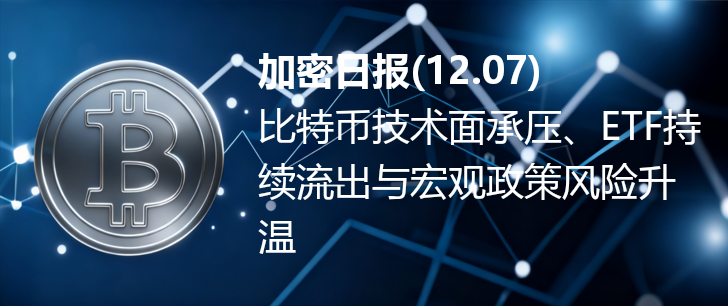
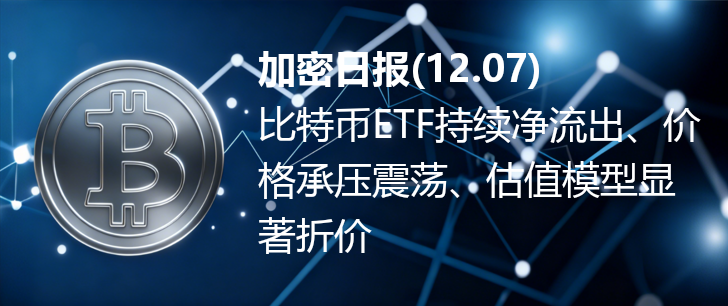
daily_news

diff --git a/files/latest_summary.md b/files/latest_summary.md
@@ -1,132 +1,34 @@
-# 各国政策与监管变化
-
-### 多国监管与法律事件
-**总结**  
-1. 马来西亚成立联合工作组，打击非法比特币矿机（涉及偷电损失超11亿美元）。  
-2. 美国非营利组织BPI呼吁特朗普赦免Samourai钱包开发者，认为起诉错误适用联邦法律。  
-3. 俄罗斯经济顾问建议将加密资产纳入国际收支统计，视比特币挖矿为“出口项目”。  
-**来源**  
-- [马来西亚成立联合工作组打击1.4万台非法比特币矿机](https://www.odaily.news/zh-CN/newsflash/459394)  
-- [BPI呼吁特朗普赦免Samourai钱包开发者](https://www.binance.com/zh-CN/square/post/12-04-2025-bpi-samourai-3200-33255431691097)  
-- [普京顾问建议将加密资产纳入国际收支统计](https://www.binance.com/zh-CN/square/post/12-04-2025-33244540936305)
+### 一、加密货币ETF资金流动与机构需求  
+**总结**：  
+1. 比特币现货ETF单日净流出1.95亿美元，12支基金无一录得净流入，贝莱德旗下IBIT净流出最多（1.13亿美元），富达FBTC净流出5420.48万美元。  
+2. 贝莱德比特币ETF连续六周净流出，创推出以来最长净流出纪录，机构对比特币的需求持续低迷，与今年标普500指数上涨16%形成鲜明对比。  
+**参考**：  
+- [比特币现货ETF昨日净流出1.95亿美元，12支基金无一录得净流入](https://news.futunn.com/post/658450)  
+- [贝莱德比特币ETF遭遇创纪录35亿元净流出](https://www.zaobao.com.sg/finance/world/story20251206-7925062)  
 
 
-### 稳定币监管与风险
-**总结**  
-1. 国际货币基金组织（IMF）呼吁加强稳定币统一监管，担忧其对货币主权、金融稳定及非法交易的影响。  
-2. 稳定币在跨境支付中的应用扩展引发监管关注，需平衡创新与风险控制。  
-**来源**  
-- [IMF经济学家呼吁加强稳定币统一监管以应对风险升级](https://news.bitcoin.com/zh/imf-jingjixuejia-huyuzengqiang-wendingbi-tongyi-jianguan-yi-yingdui-fengxian-shengji/)  
+### 二、比特币技术分析与价格走势  
+**总结**：  
+1. 比特币在$92,600遇阻后回落至$88,100，当前在$89,200-$89,900区间横盘震荡，成交量轻，市场表现犹豫。  
+2. 4小时图形成“圆顶”结构，关键支撑位$88,000-$90,000，阻力位$91,500-$95,000，若跌破$88,000或重测$80,537低点。  
+3. 日线图显示仍处于下行趋势恢复阶段，200周期SMA（约$109,295）远高于当前价格，技术指标RSI（43）、随机指标（65）中性，MACD提供微弱牛市信号。  
+**参考**：  
+- [比特币价格观察：技术信号显示谨慎，而非投降](https://www.bitcoin.com/zh/can-yi-yuan-jia-mi-shi-chang-fa-an-de-xian-zhuang-wen-ding-bi-te-lang-pu-de-can-yu-he-qu-zhong-xin-hua-jin-rong-tong-dian-fen-xi/)  
 
 
-### 中国与美国监管动态
-**总结**  
-1. 中国七大金融协会发布风险提示，明确禁止虚拟货币及RWA代币业务。  
-2. 美国监管态度转向宽松，允许银行提供加密服务（如德州小型贷款机构Monet加入加密银行行列）。  
-**来源**  
-- [中国七大金融协会发布关于防范涉虚拟货币等非法活动风险提示](https://finance.sina.com.cn/blockchain/roll/2025-12-05/doc-infzukxu8141966.shtml)  
-- [德州小型贷款机构Monet 加入加密货币专注银行行列](https://www.coindesk.com/zh/policy/2025/12/05/small-texas-lender-monet-joining-field-of-crypto-focused-banks)  
-
-
-### 欧洲与美国加密法案进展
-**总结**  
-1. 欧洲机构启动加密资产审查，重点关注稳定币储备、加密投资产品资本要求。  
-2. 美国参议院加密市场法案引发关注，涉及稳定币监管、特朗普参与及DeFi痛点分析。  
-**来源**  
-- [2025年12月6日币圈有多个重要动态，涵盖价格波动、技术升级、监管与机构动作等方面](https://www.binance.com/my-MM/square/post/33321267881354)  
-- [参议院加密市场法案的现状：稳定币、特朗普的参与和去中心化金融痛点分析](https://news.bitcoin.com/zh/can-yi-yuan-jia-mi-shi-chang-fa-an-de-xian-zhuang-wen-ding-bi-te-lang-pu-de-can-yu-he-qu-zhong-xin-hua-jin-rong-tong-dian-fen-xi/)  
-
-
-# 企业与机构的活动
-
-### 机构合并与上市
-**总结**  
-1. Cantor Equity Partners与Twenty One Capital合并，更名为Twenty One Capital, Inc.，计划12月9日纽交所上市（代码“XXI”），定位为比特币原生上市公司。  
-2. Anthony·庞普利亚诺的比特币资金管理公司ProCap BTC完成SPAC合并交易，打造比特币金库公司。  
-**来源**  
-- [Cantor Equity Partners 与Twenty One Capital 合并并计划纽交所上市](https://www.binance.com/zh-CN/square/post/12-04-2025-cantor-equity-partners-twenty-one-capital-33242866117970)  
-- [Anthony·庞普利亚诺的比特币资金管理公司ProCap BTC完成SPAC合并交易](https://www.coindesk.com/zh/markets/2025/12/06/anthony-pompliano-s-bitcoin-treasury-firm-procap-btc-closes-spac-merger-deal)  
-
-
-### 机构资金与持仓动态
-**总结**  
-1. Matrixport过去24小时从币安提取3805枚BTC（价值约3.525亿美元），反映机构资金转移动态。  
-2. Strategy（原MicroStrategy）过去48小时向富达转移6536枚BTC，托管比例升至28%，以控制持仓风险。  
-3. 摩根大通关注MicroStrategy持仓抛售风险，认为其能否挺住是比特币短期走势关键。  
-**来源**  
-- [Matrixport过去24小时从币安提取3805枚BTC](https://www.odaily.news/zh-CN/newsflash/459461)  
-- [Strategy 过去48 小时向富达转移6536 枚BTC ，目前约28%的持仓已由富达托管](https://www.odaily.news/zh-CN/newsflash/459602)  
-- [摩根大通：比特币短期关键在Strategy抛售风险，中期理论估值约17 万美元](https://finance.sina.com.cn/blockchain/roll/2025-12-05/doc-infzukxu8141966.shtml)  
-
-
-### 企业加密服务扩展
-**总结**  
-1. 法国银行巨头BPCE将于12月8日向200万零售客户提供加密交易服务（支持BTC、ETH等），月费2.99欧元，交易佣金1.5%。  
-2. 贝莱德CEO Larry Fink称比特币为“恐慌资产”，旗下比特币ETF管理规模达800亿美元，机构需求稳健。  
-**来源**  
-- [法国银行巨头BPCE 将为200 万零售客户推出加密货币交易](https://www.coindesk.com/zh/business/2025/12/06/french-banking-giant-bpce-to-move-crypto-trading-for-2m-retail-clients)  
-- [贝莱德首席执行官称比特币是"令人恐惧的资产"，因为主权财富基金在不断积累](https://www.bitcoinsensus.com/zh/news/bitcoin/blackrock-ceo-calls-bitcoin-an-asset-of-fear-as-sovereign-wealth-funds-accumulate)  
-
-
-### 矿企融资与业务动态
-**总结**  
-1. BitFuFu 11月产出231 BTC，并出售部分以控制风险。  
-2. 纳斯达克上市公司Soluna Holdings通过配股募资3200万美元，用于比特币挖矿、生成式AI等高性能计算业务。  
-**来源**  
-- [BitFuFu 公布11 月产出231 BTC](https://finance.sina.com.cn/blockchain/roll/2025-12-05/doc-infzukxy6422502.shtml)  
-- [加密矿企Soluna 根据纳斯达克规则达成最终协议配股募资3200 万美元](https://www.odaily.news/zh-CN/newsflash/459624)  
-
-
-# 价格波动与市场风险
-
-### 比特币市场分析与历史对比
-**总结**  
-1. 比特币当前市场结构与2022年第一季度类似，供应亏损超25%，需求减弱。  
-2. ETF资金流出主因基差交易平仓而非恐慌，机构需求仍稳健。  
-3. 历史数据显示，比特币30%以上回调后通常反弹至新高，当前Coinbase溢价指数转正、市场去杠杆化及机构资金流入等信号预示可能迎来新一轮行情。  
-**来源**  
-- [比特币(BTC)在需求减弱的情况下面临与2022年第一季度类似的市场结构。](https://blockchain.news/news/bitcoin-btc-market-structure-q1-2022-weakening-demand-zh)  
-- [比特币（BTC）“基差交易”平仓导致近期40亿美元ETF资金流出。](https://www.coindesk.com/zh/markets/2025/12/04/usd4b-bitcoin-etf-outflows-in-oct-nov-reflect-basis-trade-unwind-not-capitulation-research-analyst)  
-- [三大关键信号预示BTC或将迎来新一轮行情](https://www.binance.com/zh-CN/square/post/33257375061674)  
-
-
-### 比特币价格波动与技术面分析
-**总结**  
-1. 比特币近期在88,000-93,000美元区间震荡，CME期货主力合约12月5日下跌3.68%至89,425美元，本周累跌1.80%。  
-2. 技术面显示4小时图形成“圆顶”形态，短期关键支撑$88,000（跌破或重测11月低点$80,537），阻力$95,000（突破或逆转趋势）。  
-3. 技术指标（RSI、随机指标）中性，移动平均线呈看跌排列，存在看跌背离（与2021-2022年类似，或演变为宏观下跌趋势）。  
-**来源**  
-- [比特币再度跌破9万美元关口交易员押注短期或继续横盘](https://news.futunn.com/post/65867682/bitcoin-has-once-again-fallen-below-the-90000-mark-with)  
-- [CME比特币期货BTC主力合约较周四纽约尾盘跌3.68%，报89425美元](https://www.163.com/dy/article/KG2VFOKG0512B07B.html)  
-- [比特币价格观察：技术信号显示谨慎，而非投降](https://www.binance.com/zh-CN/square/post/333212/)  
-
-
-### 比特币估值模型与ETF资金流向
-**总结**  
-1. 幂律估值模型显示当前价格较目标折价约32%（2024年8月以来最大偏离），需关注模型回归或跌破风险。  
-2. 比特币现货ETF持续净流出，贝莱德旗下ETF连续六周净流出，12月4日单日净流出1.95亿美元（12支基金无一净流入）。  
-3. 2025年出现股市（标普500涨16%）与比特币（跌3%）罕见分化，主因资本轮动至防御性资产、ETF资金流入放缓。  
-**来源**  
+### 三、比特币估值模型与市场趋势分析  
+**总结**：  
+1. 比特币幂律估值模型显示当前价格约$118,000，现货价格约$89,618，较模型折价32%，为2024年8月日元套息交易清算以来最大偏差。  
+2. 分析师指出，比特币出现“看跌背离”现象（价格上涨但高点降低、资金流入减少），与2021-2022年市场情况类似，或预示宏观下跌趋势。  
+**参考**：  
 - [比特币是否即将打破其最后一个存活的估值模型？](https://www.coindesk.com/zh/markets/2025/12/05/how-much-longer-until-we-consider-the-bitcoin-power-law-model-invalid)  
-- [比特币现货ETF昨日净流出1.95亿美元，12支基金无一录得净流入](https://www.futunn.com/news/65845037)  
-- [比特币年内下跌3%，标普500指数上涨16%，十年来首次出现重大分化](https://www.bitcoinsensus.com/zh/news/bitcoin/bitcoin-broke-from-stocks-for-the-first-time-in-a-decade)  
+- [分析师：目前BTC看跌背离现象与2021-2022年期间的情况类似，或演变为宏观下跌趋势](https://www.bitpush.news/articles/7593659)  
 
 
-# 其它相关事件
-
-### 实体比特币资产转移
-**总结**  
-1. 与实体Casascius硬币相关的两个长期休眠钱包（13年未活跃）转移2000 BTC（价值约1.8亿美元），或因物理组件退化或保障访问权。  
-**来源**  
-- [两枚持有2000比特币的Casascius硬币在13年未活跃后被转移](https://news.futunn.com/post/658766/)  
-- [两枚持有2,000枚比特币的Casascius实体币在沉寂13年后被转移](https://www.coindesk.com/zh/business/2025/12/06/two-casascius-coins-holding-2k-btc-moved-after-13-years-of-inactivity)  
-
-
-### 项目动态与行业争议
-**总结**  
-1. Aster团队销毁8000万美元回购资金；Base上线Solana跨链桥，实现双向资产互通；币安停止Tranchess、dForce等部分代币充提。  
-2. Polymarket在MetaMask移动应用上线预测市场；Rainbow基金会规划TGE，但其USPD协议遭攻击损失约100万美元。  
-3. 前Cash App高管Mike Brock批评比特币被权贵利用，称其可能成为极权工具，引发市场情绪波动。  
-**来源**  
-- [摩根大通：比特币短期走势关键看MicroStrategy，贝莱德CEO称其为“恐慌资产”](https://www.futunn.com/news/65845037)  
-- [这位前Cash App高管正在对比特币发出警报](https://news.bitcoin.com/zh/zhe-wei-qian-cash-app-gao-guan-zheng-zai-dui-bi-te-bi-fa-chu-jing-bao/)
+### 四、机构动态与市场观点  
+**总结**：  
+1. 摩根大通认为，Strategy（原MicroStrategy）维持比特币持仓估值比高于1并避免被迫抛售，是决定比特币短期价格走势的关键，该行同时维持BTC中期理论目标价约17万美元。  
+2. 由Anthony Pompliano领导并专注比特币金库的ProCap BTC完成SPAC合并，更名为ProCap Financial并在纳斯达克上市，尽管同类SPAC项目股价普遍下跌，但ProCap通过低薪酬和股权激励设计增强股东信心。  
+**参考**：  
+- [摩根大通：Strategy能否挺住或成比特币短期走势关键](https://news.futunn.com/post/658450)  
+- [安东尼·庞普利亚诺的比特币资金管理公司ProCap BTC完成SPAC合并交易](https://www.coindesk.com/zh/markets/2025/12/06/anthony-pompliano-s-bitcoin-treasury-firm-procap-btc-closes-spac-merger-deal)

diff --git a/files/latest_summary_cleaned.md b/files/latest_summary_cleaned.md
@@ -1,18 +1,13 @@
-### 一、比特币技术面分析与市场趋势判断
-1. 比特币当前价格在$88,420至$91,290区间震荡于$90K心理关口前，成交量轻，显示多空犹豫，突破$90,000需成交量配合，跌破$88,000或触发新一轮下滑。
-2. 4小时图形成圆顶结构，从$83,800反弹至$94,000后回落至$88,000-$90,000区间，短期阻力$91,500-$93,000，支撑$88,000-$88,500，跌破或重测$85,000-$80,537。
-3. 日线图仍处于下行趋势，RSI（43）、随机指标（65）中性，MACD提供牛市信号但移动平均线（EMA/SMA）呈看跌对齐，当前牛市反转概率约35%。
-4. 分析师观察到比特币出现看跌背离现象，高点不断降低，与2021-2022年类似，或演变为宏观下跌趋势。
-### 二、机构资金流向与ETF动态
-1. 比特币现货ETF单日净流出1.95亿美元，12支基金无一净流入，贝莱德IBIT净流出1.13亿美元，富途FBTC净流出5420.48万美元，累计净流入分别为625.5亿美元和120.63亿美元。
-2. 贝莱德比特币ETF（IBIT）连续六周净流出，创2024年1月推出以来最长净流出纪录，管理资产规模约800亿美元，持仓超78万枚BTC。
-3. 比特币资金管理公司ProCap BTC完成SPAC合并上市，更名为ProCap Financial并在纳斯达克以BRR代码交易，CEO Anthony Pompliano承诺薪酬与股东利益绑定。
-### 三、宏观经济与监管政策影响
-1. 日本央行倾向于12月政策会议加息25个基点至0.75%，为1995年以来最高，市场预期加息概率约90%，日元走强或引发宏观投资组合去风险化。
-2. IMF发布报告称美元主导的稳定币可能削弱货币主权，建议各国建立法律框架防止稳定币获得“法定货币”地位，尤其在新兴市场需防范“货币替代”风险。
-### 四、比特币估值模型分析
-1.BTC幂律估值模型当前约为118,000美元，现货价格约89,618美元，较模型折价32%，为2024年8月日元套息交易清算以来最大偏差（当时偏差35%）。
-2. 该模型假设比特币价格与时间呈幂律分布，当前价格偏离模型幅度反映市场对长期趋势的谨慎态度，但历史上该模型在牛市常超预期，熊市常低于预期。
-### 五、机构观点与市场分析
-1. 摩根大通分析师指出MSTR维持比特币持仓估值比高于1、避免被迫抛售是决定短期价格走势的关键，MSTR拥有14.4亿美元现金储备，可覆盖未来两年债务支出。
-2. 贝莱德CEO Larry Fink认为比特币是“恐慌资产”，在市场不确定性增强时受青睐，旗下比特币ETF管理资产规模约800亿美元，主权基金高位加仓。
+### 一、加密货币ETF资金流动与机构需求  
+1. 比特币现货ETF单日净流出1.95亿美元，12支基金无一录得净流入，贝莱德旗下IBIT净流出最多（1.13亿美元），富达FBTC净流出5420.48万美元。  
+2. 贝莱德比特币ETF连续六周净流出，创推出以来最长净流出纪录，机构对比特币的需求持续低迷，与今年标普500指数上涨16%形成鲜明对比。  
+### 二、比特币技术分析与价格走势  
+1. 比特币在$92,600遇阻后回落至$88,100，当前在$89,200-$89,900区间横盘震荡，成交量轻，市场表现犹豫。  
+2. 4小时图形成“圆顶”结构，关键支撑位$88,000-$90,000，阻力位$91,500-$95,000，若跌破$88,000或重测$80,537低点。  
+3. 日线图显示仍处于下行趋势恢复阶段，200周期SMA（约$109,295）远高于当前价格，技术指标RSI（43）、随机指标（65）中性，MACD提供微弱牛市信号。  
+### 三、比特币估值模型与市场趋势分析  
+1. 比特币幂律估值模型显示当前价格约$118,000，现货价格约$89,618，较模型折价32%，为2024年8月日元套息交易清算以来最大偏差。  
+2. 分析师指出，比特币出现“看跌背离”现象（价格上涨但高点降低、资金流入减少），与2021-2022年市场情况类似，或预示宏观下跌趋势。  
+### 四、机构动态与市场观点  
+1. 摩根大通认为，Strategy（原MicroStrategy）维持比特币持仓估值比高于1并避免被迫抛售，是决定比特币短期价格走势的关键，该行同时维持BTC中期理论目标价约17万美元。  
+2. 由Anthony Pompliano领导并专注比特币金库的ProCap BTC完成SPAC合并，更名为ProCap Financial并在纳斯达克上市，尽管同类SPAC项目股价普遍下跌，但ProCap通过低薪酬和股权激励设计增强股东信心。  
